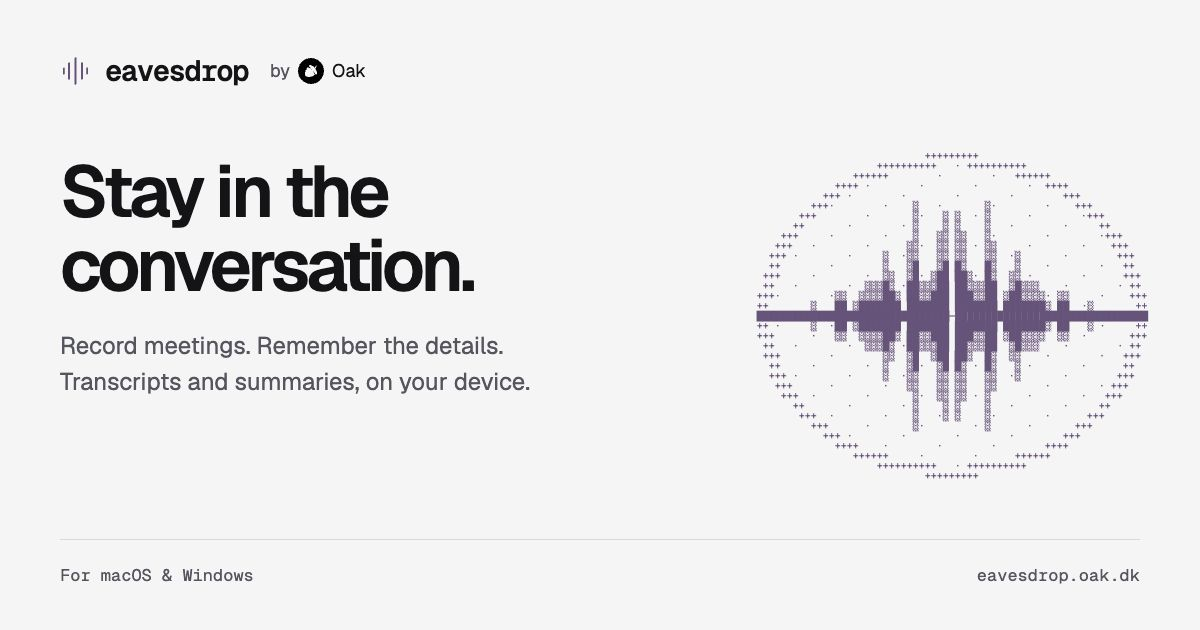
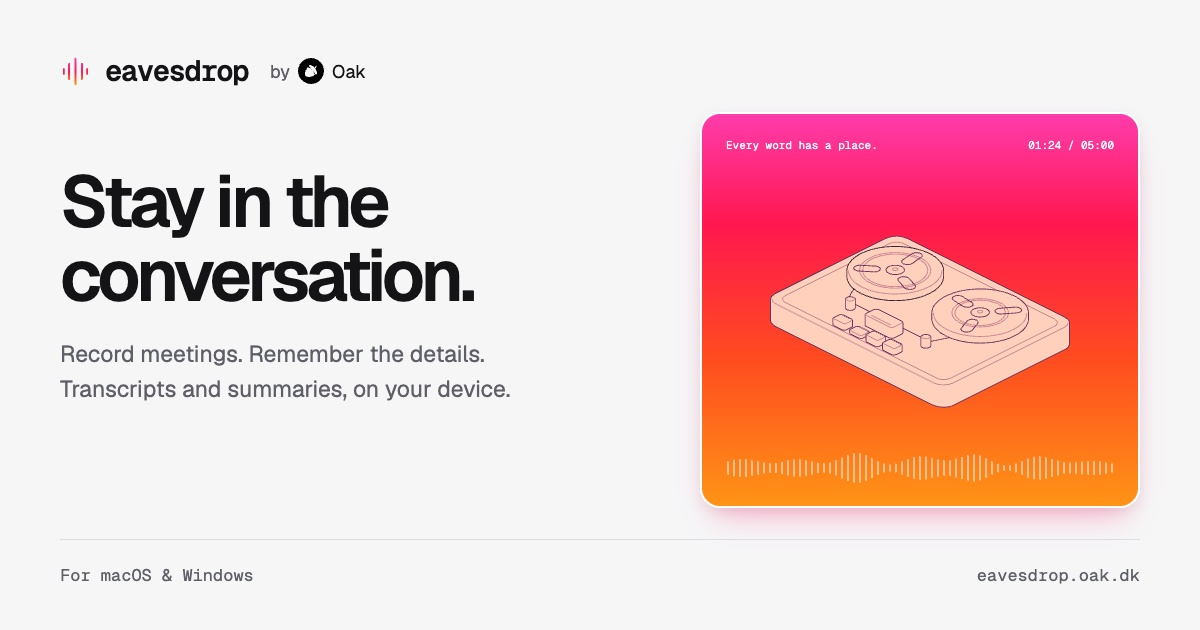
Refresh website share image with the tape recorder hero

diff --git a/website/scripts/share-image.html b/website/scripts/share-image.html
@@ -22,39 +22,51 @@
       .brand { font-family: "Geist Mono", monospace; font-size: 29px; font-weight: 600; letter-spacing: -1.5px; }
       .maker { display: flex; align-items: center; gap: 8px; margin-left: 8px; font-size: 18px; }
       .maker span:first-child { color: #5f5f68; }
-      h1 { margin: 65px 0 24px; font-size: 72px; line-height: 1.03; letter-spacing: -3.8px; font-weight: 600; }
-      .description { margin: 0; color: #5f5f68; font-size: 24px; line-height: 1.5; }
-      .signal { position: absolute; right: 52px; top: 150px; margin: 0; color: #765b86; font-family: "Geist Mono", monospace; font-size: 10px; line-height: 10px; letter-spacing: 0; white-space: pre; }
+      h1 { margin: 75px 0 24px; font-size: 72px; line-height: 1.03; letter-spacing: -3.8px; font-weight: 600; }
+      .description { margin: 0; color: #5f5f68; font-size: 23px; line-height: 1.5; }
+      .recorder-card { position: absolute; right: 60px; top: 112px; width: 440px; padding: 24px 24px 20px; border: 2px solid #fff; border-radius: 20px; background: linear-gradient(180deg, #ff3cac 0%, #ff174f 28%, #ff4b20 62%, #ff9416 100%); color: #fff; box-shadow: 0 18px 32px -14px #ff246b66, 0 4px 12px #2b143414; }
+      .recorder-heading { display: flex; justify-content: space-between; font-family: "Geist Mono", monospace; font-size: 11px; }
+      .recorder-stage[data-hairline] { --hairline-plate: #ffd1bd; --hairline-edge: #6c315e; --hairline-hi: #392039; --hairline-lo: #c98291; --hairline-mid: #a95c7b; width: 100%; aspect-ratio: 5 / 4; }
+      .recorder-stage > svg { display: block; width: 100%; height: auto; }
+      .equalizer { display: block; width: 100%; height: 36px; margin-top: -12px; }
+      .equalizer path { fill: none; stroke: currentColor; stroke-width: 1; stroke-linecap: round; vector-effect: non-scaling-stroke; }
       footer { position: absolute; bottom: 44px; left: 60px; right: 60px; display: flex; justify-content: space-between; padding-top: 24px; border-top: 1px solid #dedee2; font-size: 17px; font-family: "Geist Mono", monospace; color: #5f5f68; }
     </style>
   </head>
   <body>
     <main>
       <header>
-        <svg width="31" height="35" viewBox="0 0 24 24" fill="none" stroke="#765b86" stroke-width="1.5" stroke-linecap="round" aria-hidden="true"><path d="M3 10v4m4-8v12m5-16v20m5-16v12m4-8v4" /></svg>
+        <svg width="31" height="35" viewBox="0 0 24 24" fill="none" stroke="url(#brand-gradient)" stroke-width="1.5" stroke-linecap="round" aria-hidden="true"><defs><linearGradient id="brand-gradient" x1="0" y1="2" x2="0" y2="22" gradientUnits="userSpaceOnUse"><stop stop-color="#ff3cac" /><stop offset="0.5" stop-color="#ff174f" /><stop offset="1" stop-color="#ff9416" /></linearGradient></defs><path d="M3 10v4m4-8v12m5-16v20m5-16v12m4-8v4" /></svg>
         <span class="brand">eavesdrop</span>
         <span class="maker"><span>by</span><img src="/oak-logo.svg" width="26" height="26" alt="" /><span>Oak</span></span>
       </header>
       <h1>Stay in the<br />conversation.</h1>
       <p class="description">Record meetings. Remember the details.<br />Transcripts and summaries, on your device.</p>
-      <pre class="signal" aria-hidden="true"></pre>
+      <div class="recorder-card" aria-hidden="true">
+        <div class="recorder-heading"><span>Every word has a place.</span><span>01:24 / 05:00</span></div>
+        <div class="recorder-stage" data-hairline="recorder" data-hairline-theme="light"></div>
+        <svg class="equalizer" viewBox="0 0 600 48" preserveAspectRatio="none"><path /></svg>
+      </div>
       <footer><span>For macOS &amp; Windows</span><span>eavesdrop.oak.dk</span></footer>
     </main>
     <script type="module">
-      // Same native ASCII waveform used by the landing page.
-      document.querySelector(".signal").textContent = Array.from({ length: 33 }, (_, y) =>
-        Array.from({ length: 65 }, (_, x) => {
-          const dx = (x - 32) / 32;
-          const dy = (y - 16) / 16;
-          const radius = Math.sqrt(dx * dx + dy * dy);
-          const envelope = Math.exp(-dx * dx * 4.5);
-          const wave = Math.abs(Math.sin(dx * 24) * 0.62 + Math.sin(dx * 57) * 0.22) * envelope;
-          if (Math.abs(dy) < wave) return Math.abs(dy) < wave * 0.5 ? "█" : "▒";
-          if (radius > 0.94 && radius < 1.01) return "+";
-          if (y === 16) return "─";
-          return (x + y * 3) % 9 === 0 && radius < 1 ? "·" : " ";
-        }).join(""),
-      ).join("\n");
+      import { HL, recorder } from "../src/hairline/recorder.generated.js";
+
+      // Render the actual landing-page figure at its fixed initial pose.
+      HL.inject(document);
+      const stage = document.querySelector(".recorder-stage");
+      const svg = HL.mk("svg", { viewBox: "0 0 400 320" }, stage);
+      const handle = recorder.mount({ stage, svg, read: { textContent: "01:24" } }, recorder.range[1]);
+      handle.setPlaying(false);
+      document.querySelector(".equalizer path").setAttribute("d", Array.from({ length: 65 }, (_, i) => {
+        const x = 3 + (i / 64) * 594;
+        const envelope = 0.45 + 0.55 * Math.sin((i / 64) * Math.PI);
+        const signal = 0.5 + 0.3 * Math.sin(84 * 2.4 + i * 0.63) + 0.2 * Math.sin(84 * 3.7 - i * 0.37);
+        const height = 3 + 18 * envelope * signal;
+        return `M${x.toFixed(2)} ${(24 - height).toFixed(2)}V${(24 + height).toFixed(2)}`;
+      }).join(""));
+      await document.fonts.ready;
+      document.documentElement.dataset.shareReady = "true";
     </script>
   </body>
 </html>

diff --git a/website/index.html b/website/index.html
@@ -20,13 +20,13 @@
       property="og:description"
       content="Record meetings, transcribe on your device, and turn conversations into useful notes. Eavesdrop by Oak, for macOS and Windows."
     />
-    <meta property="og:image" content="https://eavesdrop.oak.dk/og-image.jpg" />
+    <meta property="og:image" content="https://eavesdrop.oak.dk/og-image.jpg?v=recorder-20261027" />
     <meta property="og:image:type" content="image/jpeg" />
     <meta property="og:image:width" content="1200" />
     <meta property="og:image:height" content="630" />
     <meta
       property="og:image:alt"
-      content="Eavesdrop by Oak. Stay in the conversation. Local meeting recording, transcripts and summaries for macOS and Windows, beside an ASCII waveform."
+      content="Eavesdrop by Oak. Stay in the conversation. Local meeting recording, transcripts and summaries for macOS and Windows, beside a tape recorder on a sunset gradient."
     />
     <meta name="twitter:card" content="summary_large_image" />
     <meta name="twitter:title" content="Eavesdrop by Oak — Stay in the conversation." />
@@ -34,10 +34,10 @@
       name="twitter:description"
       content="Record meetings, transcribe on your device, and turn conversations into useful notes. Eavesdrop by Oak, for macOS and Windows."
     />
-    <meta name="twitter:image" content="https://eavesdrop.oak.dk/og-image.jpg" />
+    <meta name="twitter:image" content="https://eavesdrop.oak.dk/og-image.jpg?v=recorder-20261027" />
     <meta
       name="twitter:image:alt"
-      content="Eavesdrop by Oak. Stay in the conversation. Local meeting recording, transcripts and summaries for macOS and Windows, beside an ASCII waveform."
+      content="Eavesdrop by Oak. Stay in the conversation. Local meeting recording, transcripts and summaries for macOS and Windows, beside a tape recorder on a sunset gradient."
     />
     <link rel="icon" type="image/svg+xml" href="/favicon.svg" />
   </head>

diff --git a/website/README.md b/website/README.md
@@ -56,7 +56,7 @@ The `#release-notes` section shows the three most recent published stable releas
 
 `index.html` includes canonical, Open Graph, and Twitter large-image card metadata in the initial HTML so crawlers do not need JavaScript. The public URL is `https://eavesdrop.oak.dk/`; update the canonical, `og:url`, and both image URLs together if the domain changes.
 
-`public/og-image.jpg` is the 1200 × 630 share image. Its editable source is `scripts/share-image.html`, using the bundled Geist fonts, original ASCII waveform, and circular Oak logo. To refresh it, run `npm run dev`, open `/scripts/share-image.html`, let the fonts load, and capture the top-left 1200 × 630 pixels at 1× scale as JPEG. The source page is not an entry point in the production build. If the image dimensions or format change, update the image metadata in `index.html` too.
+`public/og-image.jpg` is the 1200 × 630 share image. Its editable source is `scripts/share-image.html`, using the bundled Geist fonts, the landing page’s Hairline tape recorder at a fixed pose, sunset gradient, and circular Oak logo. To refresh it, run `npm run dev`, open `/scripts/share-image.html`, wait for `html[data-share-ready="true"]` (the figure and fonts are ready), and capture the top-left 1200 × 630 pixels at 1× scale as JPEG. The source page is not an entry point in the production build. Update the version query in both image URLs in `index.html` when replacing the image so crawlers can fetch the new asset. If the image dimensions or format change, update the image metadata too.
 
 ### Recorder hero
 
